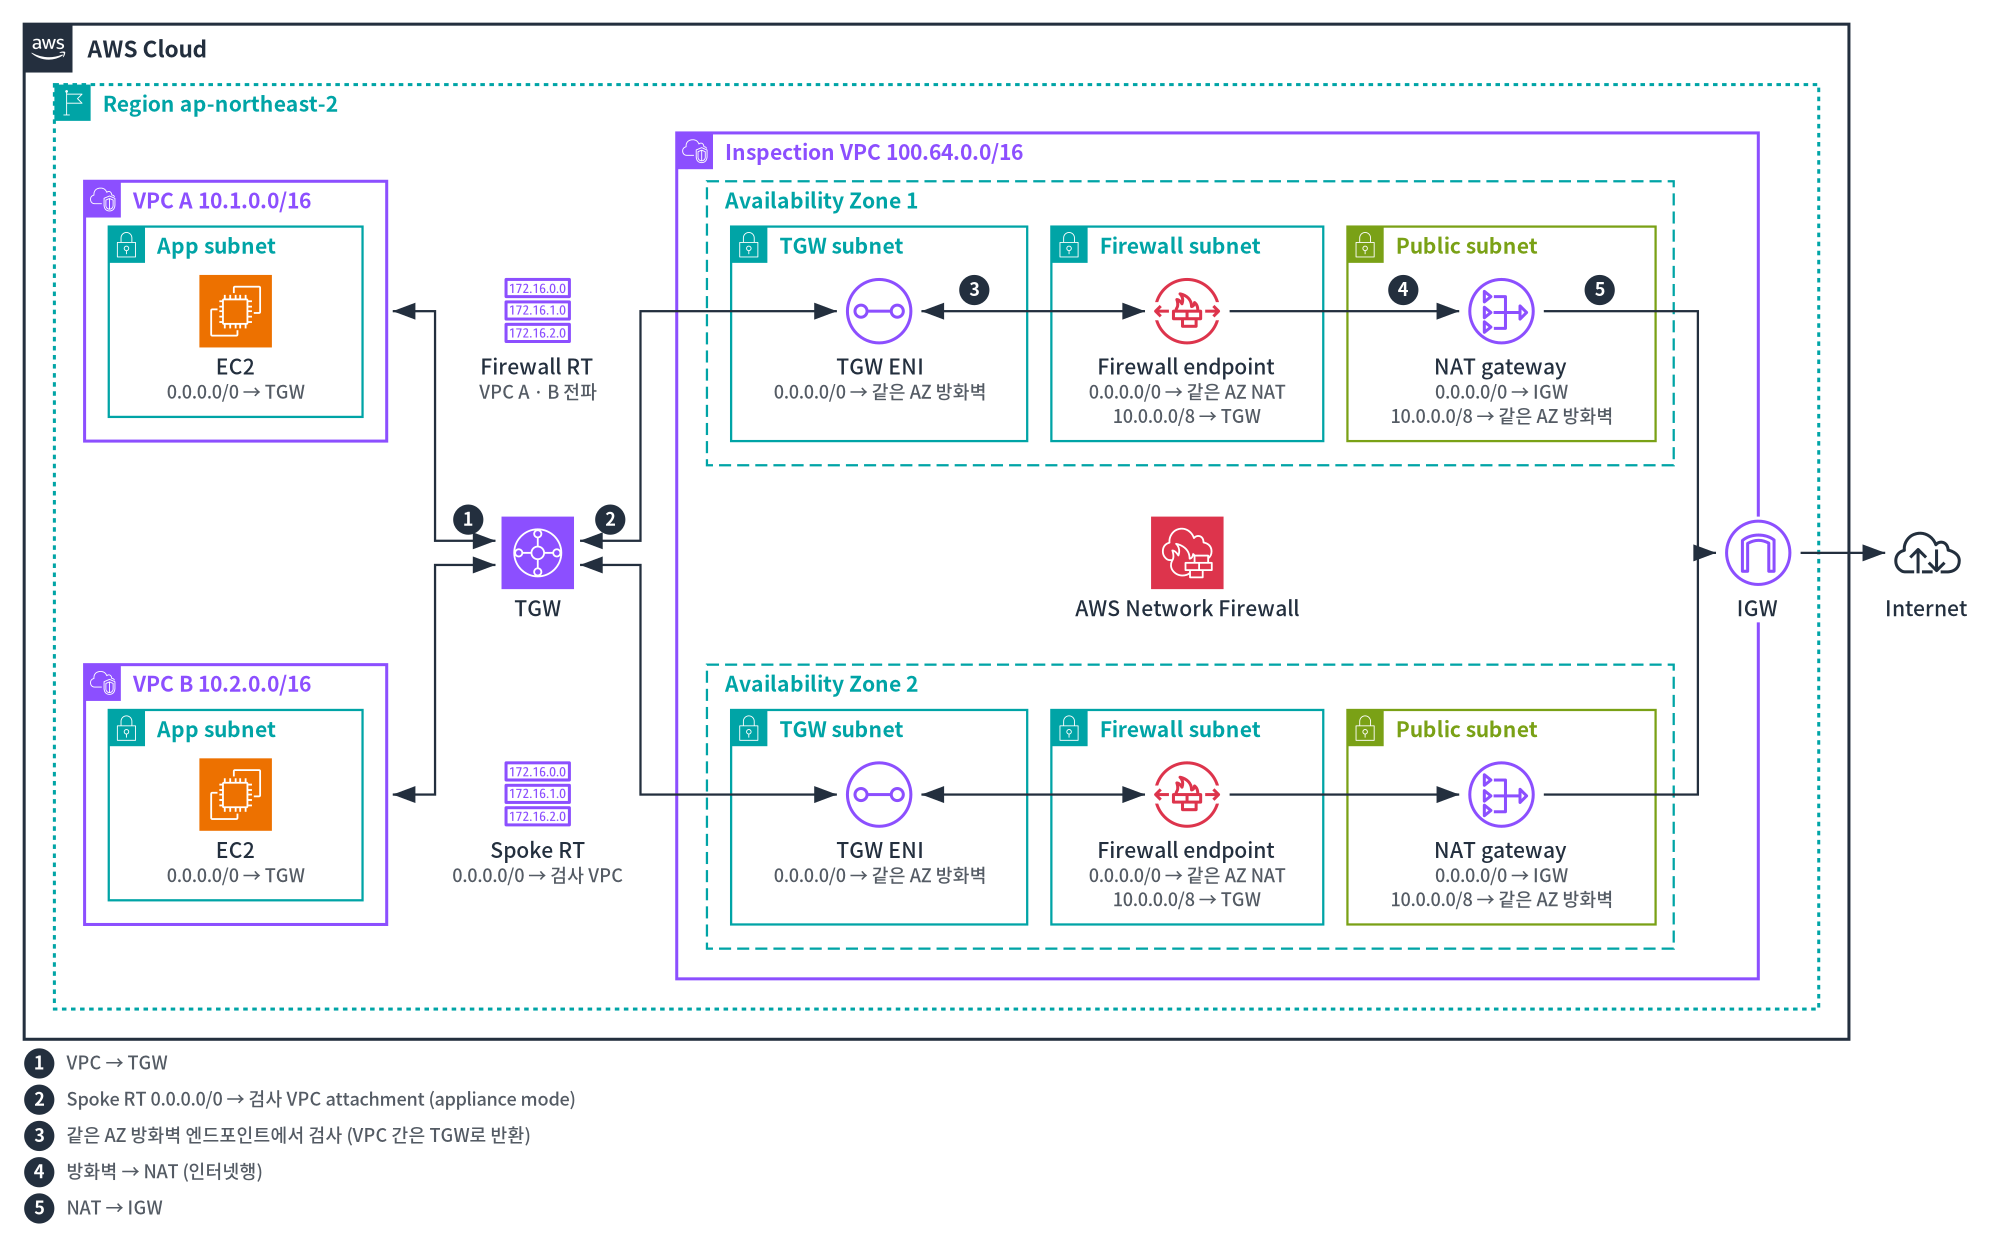
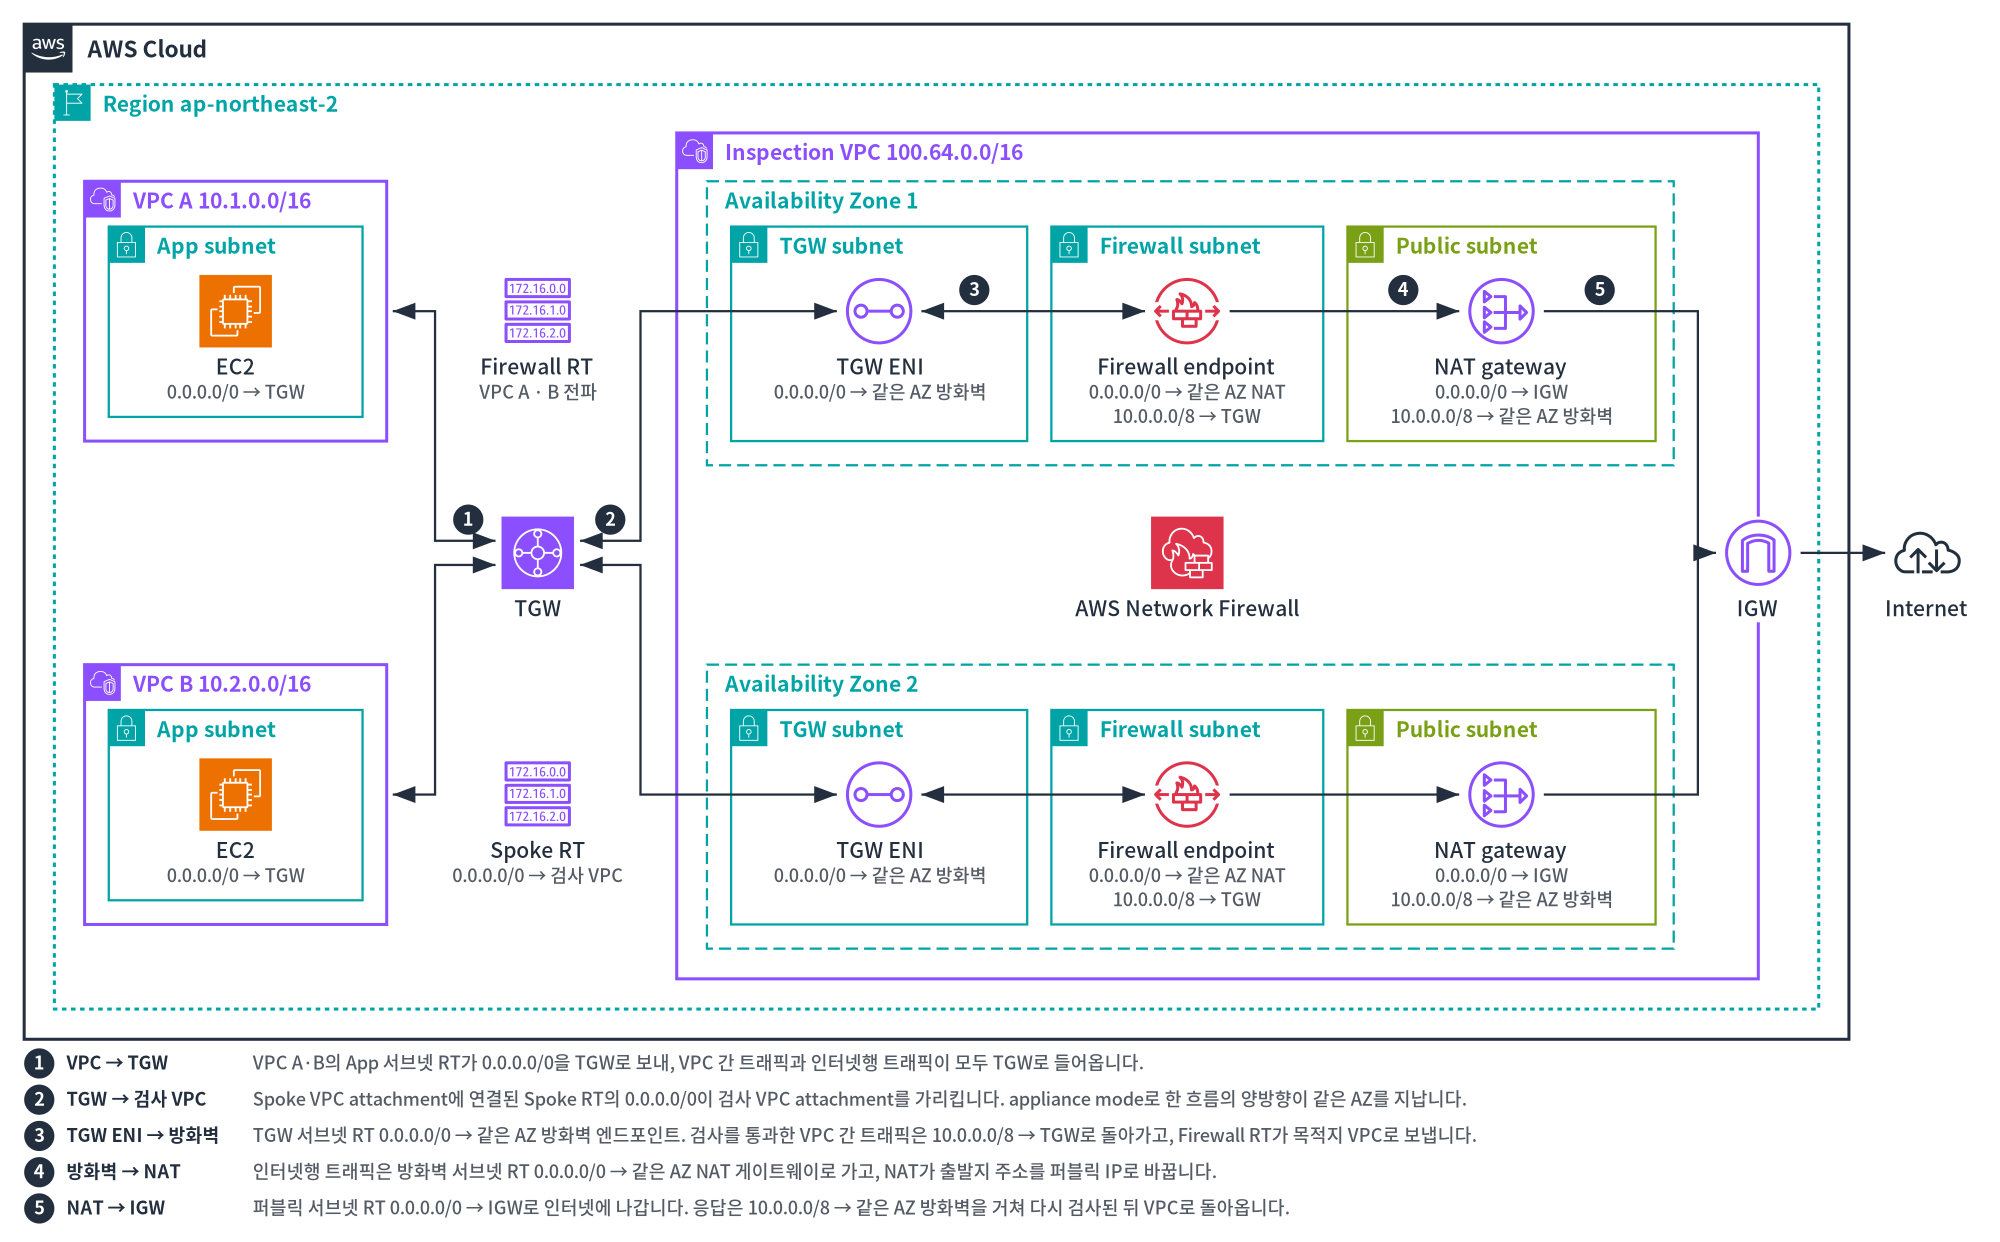
Explain each step in a document's legend with a bold hop and a sentence on the route and what happens there, since a bare hop list leaves the note empty

Changed region(s): [[0.031, 0.8261, 0.744, 0.9791]]

diff --git a/references/diagram_guide.md b/references/diagram_guide.md
@@ -540,20 +540,30 @@ a target group spanning the AZs with a zonal EC2 instance in each (it is
   8px right of the badge (`x = cx + 18`), baseline at `cy + 4`. Everything is
   left-aligned on the note's left edge (badge `cx = left + 10`); never center the
   legend or put it in a frame.
-  - **Document:** one step per row, rows 24px apart, in step order. Lines that aren't
+  - **Document:** one step per row, rows 24px apart, in step order. Each row is the
+    badge, the hop in bold (`font-weight="600"`, `#232F3E`, e.g. "TGW ENI → 방화벽"),
+    and a description column that starts at one x for every row (16px right of the
+    widest hop). A document has room, so the description explains the step instead
+    of repeating the hop — one or two sentences on one line: what sends the traffic
+    there (the route table and entry, with the diagram's CIDRs), what the service
+    does at that hop (inspects, translates, encapsulates, load-balances), and the
+    return path or the exception where it matters ("VPC 간 트래픽은 ... TGW로
+    돌아갑니다"). Use the diagram's own names; keep each row inside the canvas
+    (≈ 100 Korean characters at most on a 1200px canvas). Lines that aren't
     steps (summary, routes, security groups, test inputs) follow as plain 12px
     lines, 16px apart, starting at the same left edge, 8px below the last badge.
     The note's two-line limit doesn't count the step rows.
-  - **Slide** (canvas height ≤ 540): when one row per step doesn't fit, flow the items
-    in one row, 20px between an item's text end and the next badge; wrap to a second
+  - **Slide** (canvas height ≤ 540): items stay short — the hop and at most a few
+    words ("같은 AZ 방화벽에서 검사"); the speaker or the document carries the rest.
+    When one row per step doesn't fit, flow the items in one row, 20px between an item's text end and the next badge; wrap to a second
     row 24px below at the same left edge rather than shrinking the text.
 
   ```svg
-  <!-- step legend: same badges as the diagram, one row per step, left-aligned -->
+  <!-- step legend (document): same badges as the diagram, bold hop, aligned description column -->
   <circle cx="26" cy="660" r="10" fill="#232F3E"/><text x="26" y="664" font-size="12" font-weight="700" text-anchor="middle" fill="#FFFFFF">1</text>
-  <text x="44" y="664" font-size="12" fill="#545B64">IGW → GWLBe (인그레스 라우팅)</text>
+  <text x="44" y="664" font-size="12" font-weight="600" fill="#232F3E">IGW → GWLBe</text><text x="168" y="664" font-size="12" fill="#545B64">IGW 엣지 RT가 App 서브넷 CIDR을 같은 AZ의 GWLBe로 보내, 들어오는 트래픽이 EC2보다 먼저 검사 경로로 갑니다.</text>
   <circle cx="26" cy="684" r="10" fill="#232F3E"/><text x="26" y="688" font-size="12" font-weight="700" text-anchor="middle" fill="#FFFFFF">2</text>
-  <text x="44" y="688" font-size="12" fill="#545B64">GWLBe ⇄ GWLB</text>
+  <text x="44" y="688" font-size="12" font-weight="600" fill="#232F3E">GWLBe ⇄ GWLB</text><text x="168" y="688" font-size="12" fill="#545B64">GWLBe는 PrivateLink로 GWLB에 연결된 엔드포인트로, 받은 패킷을 바꾸지 않고 넘깁니다.</text>
   <text x="16" y="714" font-size="12" fill="#545B64">라우팅 (같은 AZ): ...</text>
   ```
 - **When routes must be shown.** A diagram whose point is the routing — inspection

diff --git a/SKILL.md b/SKILL.md
@@ -254,8 +254,9 @@ and balance, whitespace and readability still need eyes. Go through this checkli
 - [ ] Each ALB/NLB/GWLB is one node in the AZ gap; zonal resources (NAT gateway,
       GWLBe, instances, RDS primary/standby) appear once per AZ.
 - [ ] A path that leaves the main line and comes back has numbered step badges, and
-      the note's legend repeats those same badges (not ①), left-aligned — one step
-      per row in a document, flowed in one or two rows on a slide.
+      the note's legend repeats those same badges (not ①), left-aligned — in a
+      document one step per row with a bold hop and a sentence on the route and what
+      happens there; on a slide short items flowed in one or two rows.
 - [ ] Group containers are square-cornered, in the official colors and dash styles.
 - [ ] Containers hug their contents; no empty areas; text 14px (nodes, containers) /
       12px (connectors, notes); a slide is filled without crowding the title.
